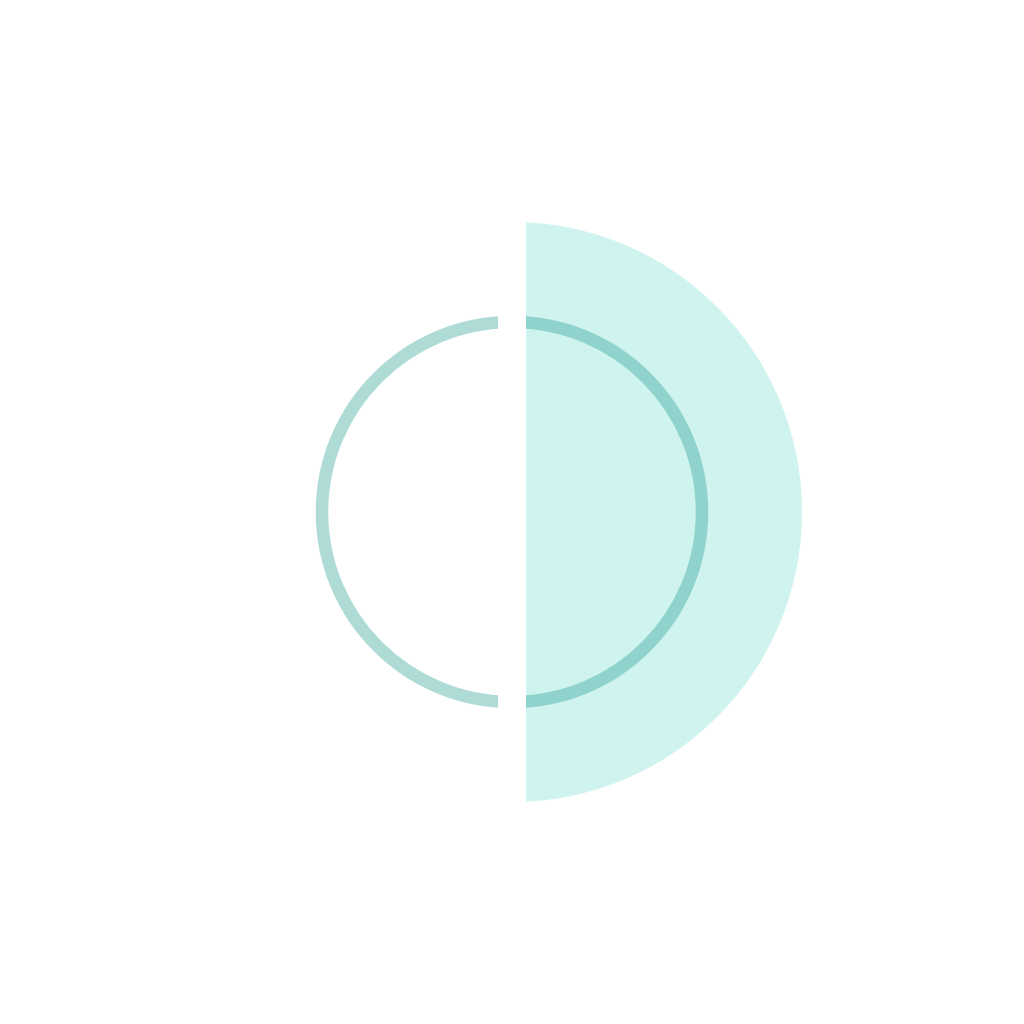
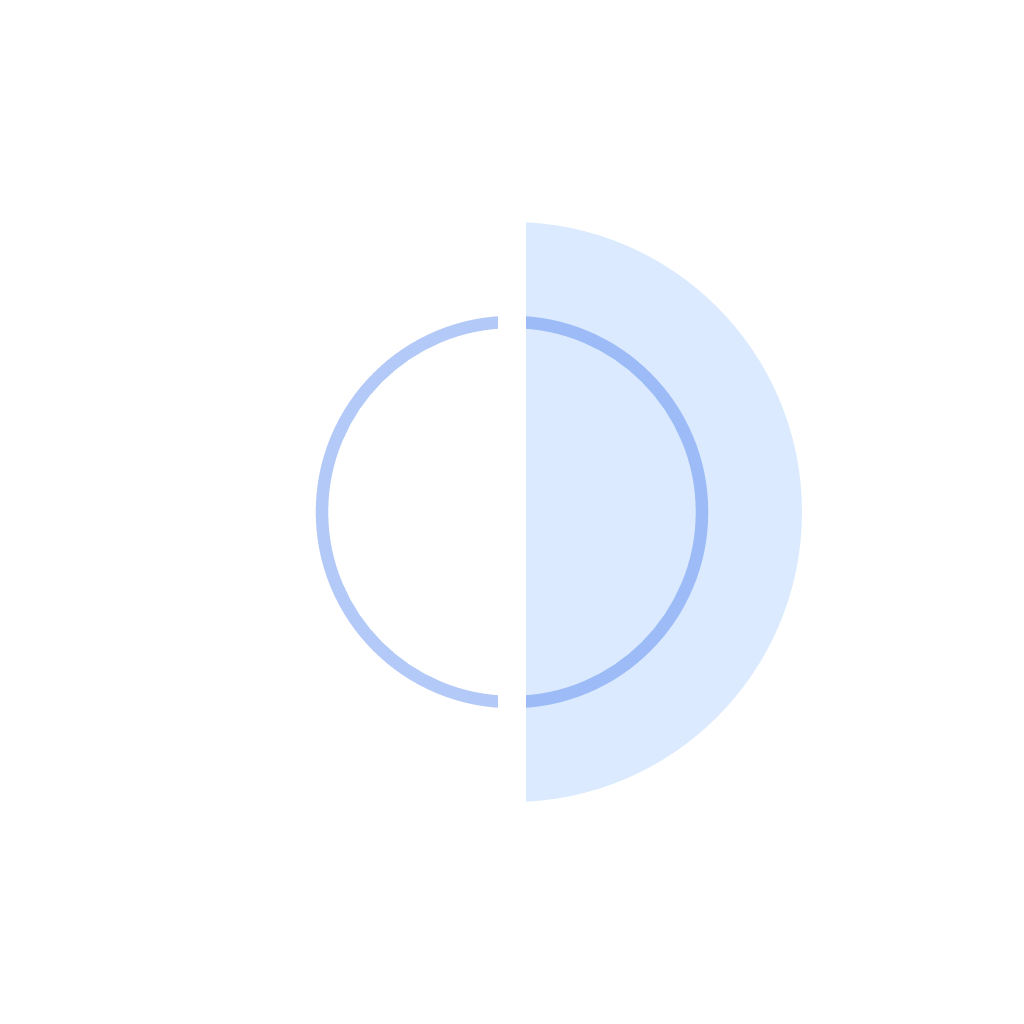
fix(branding): use the app's brand blue, flatten store images, correct the privacy policy
Review fixes: the icon, splash, adaptive icon and feature graphic now use the
in-app brand blue (#2563EB) instead of the scaffold's teal; the feature graphic
and screenshots are JPEGs without alpha as Play asks; PRIVACY.md now says what
account deletion really removes (expenses the account added and groups it
created), that expenses stay visible after leaving a group, that typed emails
are sent for lookup, and that device backup may carry settings.

diff --git a/PRIVACY.md b/PRIVACY.md
@@ -1,6 +1,6 @@
 # Evenpot privacy policy
 
-**Draft for the publisher to review.** Replace the three placeholders in square brackets before publishing. Every statement below was checked against the app's code at the time of writing; if the app changes (analytics, ads, push notifications, account deletion), this policy has to change with it.
+<!-- Draft for the publisher to review. Replace the four placeholders in square brackets ([PUBLISHER NAME], [CONTACT EMAIL], [EFFECTIVE DATE], [NUMBER OF DAYS]) and delete this comment before publishing. Every statement below was checked against the app's code at the time of writing; if the app changes (analytics, ads, push notifications, account deletion), this policy has to change with it. -->
 
 Effective date: [EFFECTIVE DATE]
 
@@ -18,10 +18,11 @@ Evenpot is a bill-splitting app. It is published by [PUBLISHER NAME] ("we", "us"
 - Expenses (amount, currency, description, category, date, who paid and how it is split).
 - Payments you record to settle up (amount, currency, optional note, who paid whom).
 - Friends ("contacts") you connect with, and contact requests you send or receive.
+- When you type another person's email address (to add them to a group or send a contact request), it is sent to our backend so it can look up their account. It is not stored.
 
 **On your phone**
 - Your sign-in session, kept in the phone's secure storage (backed by the Android Keystore).
-- Your settings: light or dark theme, display currency and notification switches. These stay on the phone.
+- Your settings: light or dark theme, display currency and notification switches. These are stored on the phone only, and may be included in Android's device backup if you have that turned on.
 - A copy of public exchange rates, so balances can be shown in your chosen currency.
 
 ## What we do not collect
@@ -32,6 +33,7 @@ Evenpot has no advertising, no analytics, no crash-reporting service and no push
 
 - **People in a group with you** can see your name, that you are a member, every expense and payment in that group (amounts, descriptions, notes, who paid, how it was split), and each member's balance.
 - **Your contacts, and anyone you have a one-to-one expense or payment with,** can see your name and the expenses and payments between the two of you.
+- **If you leave a group,** the expenses and payments you already added stay in that group, with your name, for the people who are still in it.
 - **Nobody sees your email address through the app.** It is not shown to other users.
 - **Anyone with an Evenpot account can check whether an email address has an account.** If they then send a contact request to it, they will see the name on that account.
 - **A group member can add any registered person to a group without that person accepting first.** The person added can then see that group's data, and can leave once they have no unsettled balance.
@@ -51,7 +53,8 @@ We keep your data until it is deleted. You can delete individual expenses and pa
 
 - You can change your name in the app (Account, Edit profile).
 - You can delete expenses and payments, and leave a group once you have no unsettled balance.
-- **Evenpot does not yet have a delete-account button in the app.** To delete your account, email [CONTACT EMAIL] from the address you signed up with and ask us to delete it. We will delete your account and the personal data tied to it (your email address and name) within [NUMBER OF DAYS] days. Expenses and payments in groups shared with other people may be kept without your name attached, so that the other members' balances stay correct.
+- **Evenpot does not yet have a delete-account button in the app.** To delete your account, email [CONTACT EMAIL] from the address you signed up with and ask us to delete it. We will delete your account, and the personal data tied to it (your email address and name), within [NUMBER OF DAYS] days.
+- **Please know what deletion removes.** Deleting an account also deletes the expenses and payments that account added and the groups it created, and this changes the balances the other members of those groups see. We recommend settling up first, and we can talk you through the options before we delete anything.
 
 ## Children
 
